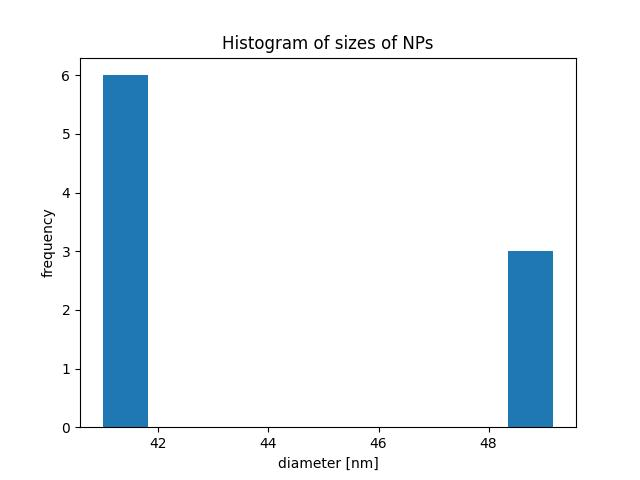
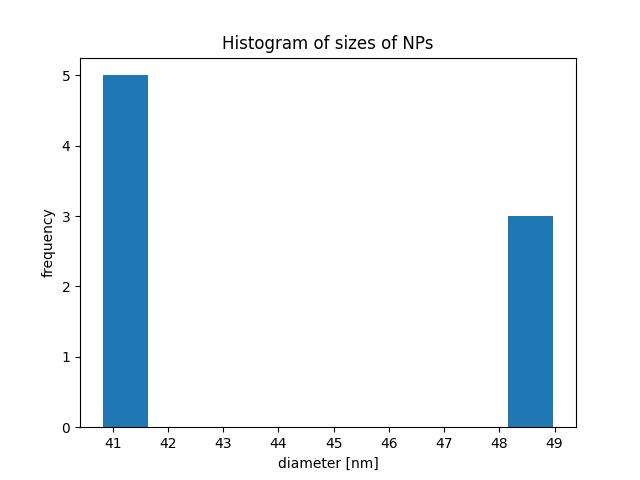
scale

diff --git a/img_fcn.py b/img_fcn.py
@@ -67,11 +67,13 @@ def loading_img(img_path, scale):
 
     line = img_raw[-100:, int(width/2):, :]
     line = cv2.cvtColor(line, cv2.COLOR_RGB2GRAY)
-    line = cv2.Canny(line, 0, 255)
-    lines = cv2.HoughLinesP(line, 1, np.pi/180, threshold=50,
-                            minLineLength=100, maxLineGap=10)
-    lengths = [item[0][2]-item[0][0] for item in lines]
-    pixel_size = scale / max(lengths)
+
+    mask = line < 10
+    # try funciton remove small objects
+    mask = morphology.area_opening(mask)
+    indices = np.where(mask)
+    length = max(indices[1]) - min(indices[1])
+    pixel_size = scale / length
 
     img_raw = img_raw[0:-100, :]
 
@@ -178,11 +180,11 @@ def hough_segmentation(img_filtered, pixel_size):
     thresh = threshold_otsu(img_filtered)
 
     for x, y, r in circles:
-        '''if img_filtered[x, y] > thresh:
+        if img_filtered[x, y] > thresh:
             circles.remove((x, y, r))
-        else:'''
-        cv2.circle(img, (x, y), r, (0, 255, 0), 1)
-        cv2.circle(img, (x, y), 1, (0, 255, 0), 2)
+        else:
+            cv2.circle(img, (x, y), r, (0, 255, 0), 1)
+            cv2.circle(img, (x, y), 1, (0, 255, 0), 2)
 
     return img, circles
 
@@ -191,14 +193,16 @@ def hough_segmentation(img_filtered, pixel_size):
 
 def hough_nanorods(img_filtered, pixel_size):
 
+    img_filtered = rescale(img_filtered, 0.2)
+
     edges = canny(img_filtered, sigma=2)
     image_rgb = np.zeros((img_filtered.shape[0], img_filtered.shape[1], 3))
     image_rgb[:, :, 0] = img_filtered
     image_rgb[:, :, 1] = img_filtered
     image_rgb[:, :, 2] = img_filtered
     
-    result = hough_ellipse(edges, accuracy=50, threshold=150,
-                       min_size=400, max_size=500)
+    result = hough_ellipse(edges, accuracy=10, threshold=150,
+                       min_size=1, max_size=10)
     result.sort(order='accumulator')
 
     # Estimated parameters for the ellipse
@@ -445,6 +449,7 @@ if __name__ == '__main__':
                                                     pixel_size, np_type)
             elif np_type == 'nanorods':
                 pass
+                #hough_nanorods(img_filtered, pixel_size)
 
         images.append(img)
         names.append(img_path)

diff --git a/tryouts/ellipse_detection.py b/tryouts/ellipse_detection.py
@@ -8,6 +8,7 @@ from skimage.draw import ellipse_perimeter
 # Load picture, convert to grayscale and detect edges
 image_rgb = data.coffee()[0:220, 160:420]
 image_gray = color.rgb2gray(image_rgb)
+print(image_gray.shape)
 edges = canny(image_gray, sigma=2.0,
               low_threshold=0.55, high_threshold=0.8)
 
